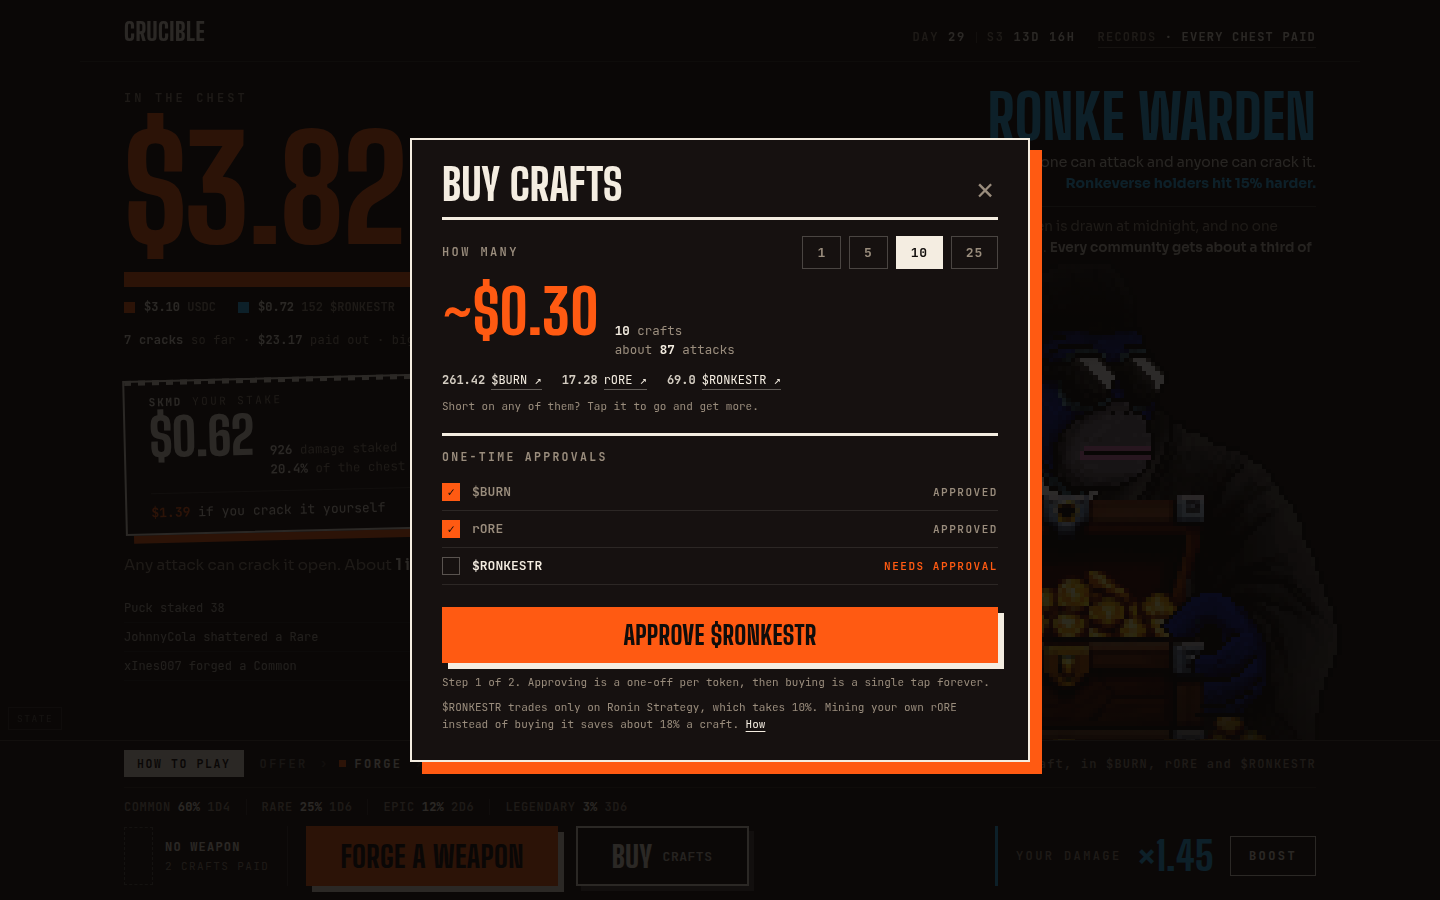
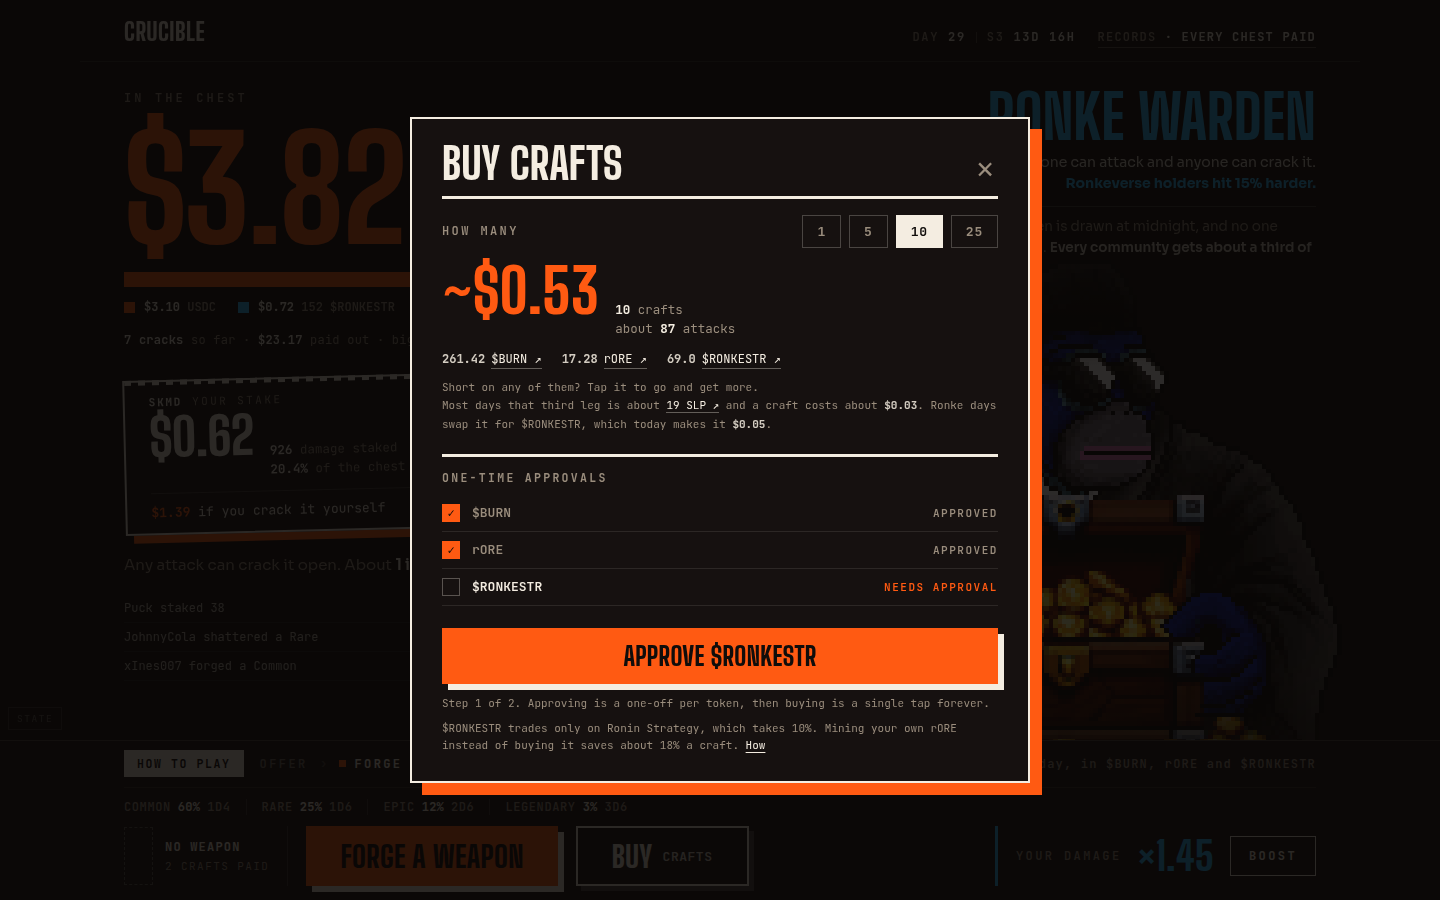
arena: real craft pricing + SLP day note

Changed region(s): [[0.2812, 0.1244, 0.7188, 0.9022]]

diff --git a/mockups/arena/arena-d-synthesis.html b/mockups/arena/arena-d-synthesis.html
@@ -420,8 +420,10 @@ button{font:inherit;color:inherit;background:none;border:0;cursor:pointer}
 }
 .buy-legs a:hover{border-color:var(--bone);color:#fff}
 .buy-get{
-  margin-top:9px;font-family:var(--mono);font-size:11px;color:var(--muted);
+  margin-top:9px;font-family:var(--mono);font-size:11px;line-height:1.7;color:var(--muted);
 }
+.buy-get b{color:rgba(244,237,225,.85);font-weight:700}
+.buy-get a{color:var(--bone);text-decoration:none;border-bottom:1px solid rgba(244,237,225,.35)}
 
 .steps-k{
   margin-top:20px;padding-top:13px;border-top:3px solid var(--bone);
@@ -641,8 +643,8 @@ body[data-state="weapon"] .only-forge{display:none}
       </li>
       <li>
         <b>Forge a weapon</b>
-        <p>About $0.03, paid in $BURN, rORE and $RONKESTR. Rarer weapons roll bigger dice,
-          so they hit harder.</p>
+        <p>Three to five cents, depending on which tokens the day is charging in.
+          Rarer weapons roll bigger dice, so they hit harder.</p>
       </li>
       <li>
         <b>Attack the Warden</b>
@@ -774,7 +776,11 @@ body[data-state="weapon"] .only-forge{display:none}
       <span class="buy-for"><b id="buyN">10</b> crafts<br>about <b id="buySwings">87</b> attacks</span>
     </div>
     <p class="buy-legs" id="buyLegs"></p>
-    <p class="buy-get">Short on any of them? Tap it to go and get more.</p>
+    <p class="buy-get">
+      Short on any of them? Tap it to go and get more.<br>
+      Most days that third leg is about <a href="https://app.roninchain.com/swap?outputCurrency=0xa8754b9Fa15fc18BB59458815510E40a12cD2014" target="_blank" rel="noreferrer">19 SLP &#8599;</a>
+      and a craft costs about <b>$0.03</b>. Ronke days swap it for $RONKESTR, which today makes it <b>$0.05</b>.
+    </p>
 
     <div class="steps-k">One-time approvals</div>
     <ul class="appr" id="appr">
@@ -878,7 +884,7 @@ body[data-state="weapon"] .only-forge{display:none}
       <span class="st" id="stBank">Bank</span>
       <span class="chev">&rsaquo;</span>
       <span class="st" id="stChest">Chest</span>
-      <span class="price">about <b>$0.03</b> a craft<span class="tokens">, in $BURN, rORE and $RONKESTR</span></span>
+      <span class="price">about <b>$0.05</b> a craft today<span class="tokens">, in $BURN, rORE and $RONKESTR</span></span>
     </div>
 
     <div class="status only-weapon">
@@ -1032,17 +1038,24 @@ body[data-state="weapon"] .only-forge{display:none}
      the live LEG_TOKENS map sends $BURN to Katana, which routes through the taxed
      BURN/RON pair. burncoin.tech's own Trade $BURN runs the Zap (wBURN/USDC) and
      skips the 6.66% tax, so that is where a player should be sent. */
+  /* Live token prices from crucible-price-sync (2026-07-30): BURN $0.00038046,
+     rORE $0.005774, SLP $0.0005144, RONKESTR $0.004748. The USD total is DERIVED
+     from these rather than assumed, which is how the Ronke-day premium below
+     shows up instead of hiding behind a nominal "$0.03". */
   var LEGS = [
-    { sym:'$BURN', per:26.142272, dp:2,
+    { sym:'$BURN', per:26.142272, dp:2, usd:0.00038046,
       url:'https://burncoin.tech/dashboard', where:'burncoin.tech, no 6.66% tax' },
-    { sym:'rORE', per:1.728455, dp:2,
+    { sym:'rORE', per:1.728455, dp:2, usd:0.005774,
       url:'https://app.roninchain.com/swap?outputCurrency=0x56418E06A569ce559b457F533A4f8D9D51a27cA8',
       where:'Katana' },
-    { sym:'$RONKESTR', per:6.9, dp:1,
+    /* the swappable leg. SLP on most days, $RONKESTR on Ronke-Warden days, set by
+       the keeper with setLeg. The client never hardcodes it: production reads the
+       legs from quote() on-chain, so a swap needs no deploy. */
+    { sym:'$RONKESTR', per:6.9, dp:1, usd:0.004748,
       url:'https://roninstrategy.fun/strategy/0x404533a09bf281199ce6b0ef60b7eff7123ff8dc',
       where:'Ronin Strategy, 10% fee' }
   ];
-  var USD_PER_CRAFT = 0.03;
+  var USD_PER_CRAFT = LEGS.reduce(function(a,l){ return a + l.per * l.usd; }, 0);
   var SWINGS_PER_CRAFT = 8.7;            // measured: players push well past the safe floor
   var buyN = 10, approved = false;
 

diff --git a/mockups/arena/PLAN.md b/mockups/arena/PLAN.md
@@ -434,6 +434,39 @@ Link verification: `roninstrategy.fun` returns 200. `app.roninchain.com` returns
 curl and a Cloudflare human-check to a headless browser, so it could not be loaded end to
 end here; the URL matches the pattern production already ships.
 
+**Other days swap the third leg automatically.** The client never hardcodes the legs:
+production reads them from `quote()` on-chain and looks each token up in `LEG_TOKENS`, so
+the keeper's `setLeg` swap (SLP on most days, $RONKESTR on Ronke-Warden days) needs no
+deploy. SLP already has its own entry and Katana link, and `legTokenMeta()` falls back to a
+generic label plus a Katana link for any token a build predates. ⚠ One gotcha carried
+through: **SLP is 0-decimals**, so amounts are whole tokens.
+
+### ⚠ A craft does not cost $0.03 on a Ronke day. It costs about $0.05.
+
+Found while sourcing the SLP figure, by running `crucible-price-sync --dry-run --once`
+against live prices (2026-07-30):
+
+| Leg | Amount | Unit price | USD |
+|---|---|---|---|
+| $BURN | 26.142272 | $0.00038046 | $0.0099 |
+| rORE | 1.728455 | $0.005774 | $0.0100 |
+| **$RONKESTR** | **6.9 (pinned)** | $0.004748 | **$0.0328** |
+| | | | **$0.0527** |
+
+The keeper re-pegs $BURN and rORE to a cent each, but the **$RONKESTR leg is a fixed 6.9
+tokens** and is not re-pegged, so its dollar value floats with the token. At today's price
+that one leg is **3.3× its $0.01 design target**, and a Ronke-day craft costs **~75% more
+than a normal SLP day** (~$0.053 vs ~$0.030).
+
+Nothing in the product says so. The whitepaper, `about.html`, the arena and my own earlier
+revisions all quote "~$0.03". Every price in the mockup is now **derived from live per-leg
+prices** rather than asserted, which is what surfaced it.
+
+This is an economy decision, not a layout one, and it joins the list: either re-peg the
+$RONKESTR leg like the other two, accept the premium as a partner-day quirk and say so, or
+lower the pinned amount. Worth noting it makes Ronke days, the ones aimed at onboarding a
+new community, the most expensive days to try the game.
+
 **Not modelled, and worth deciding before build:** what happens when a player holds none of
 the three tokens at all. Today that is an off-site errand across two venues, and no amount
 of drawer design fixes it. A single-token or RON-denominated purchase path would, and that
